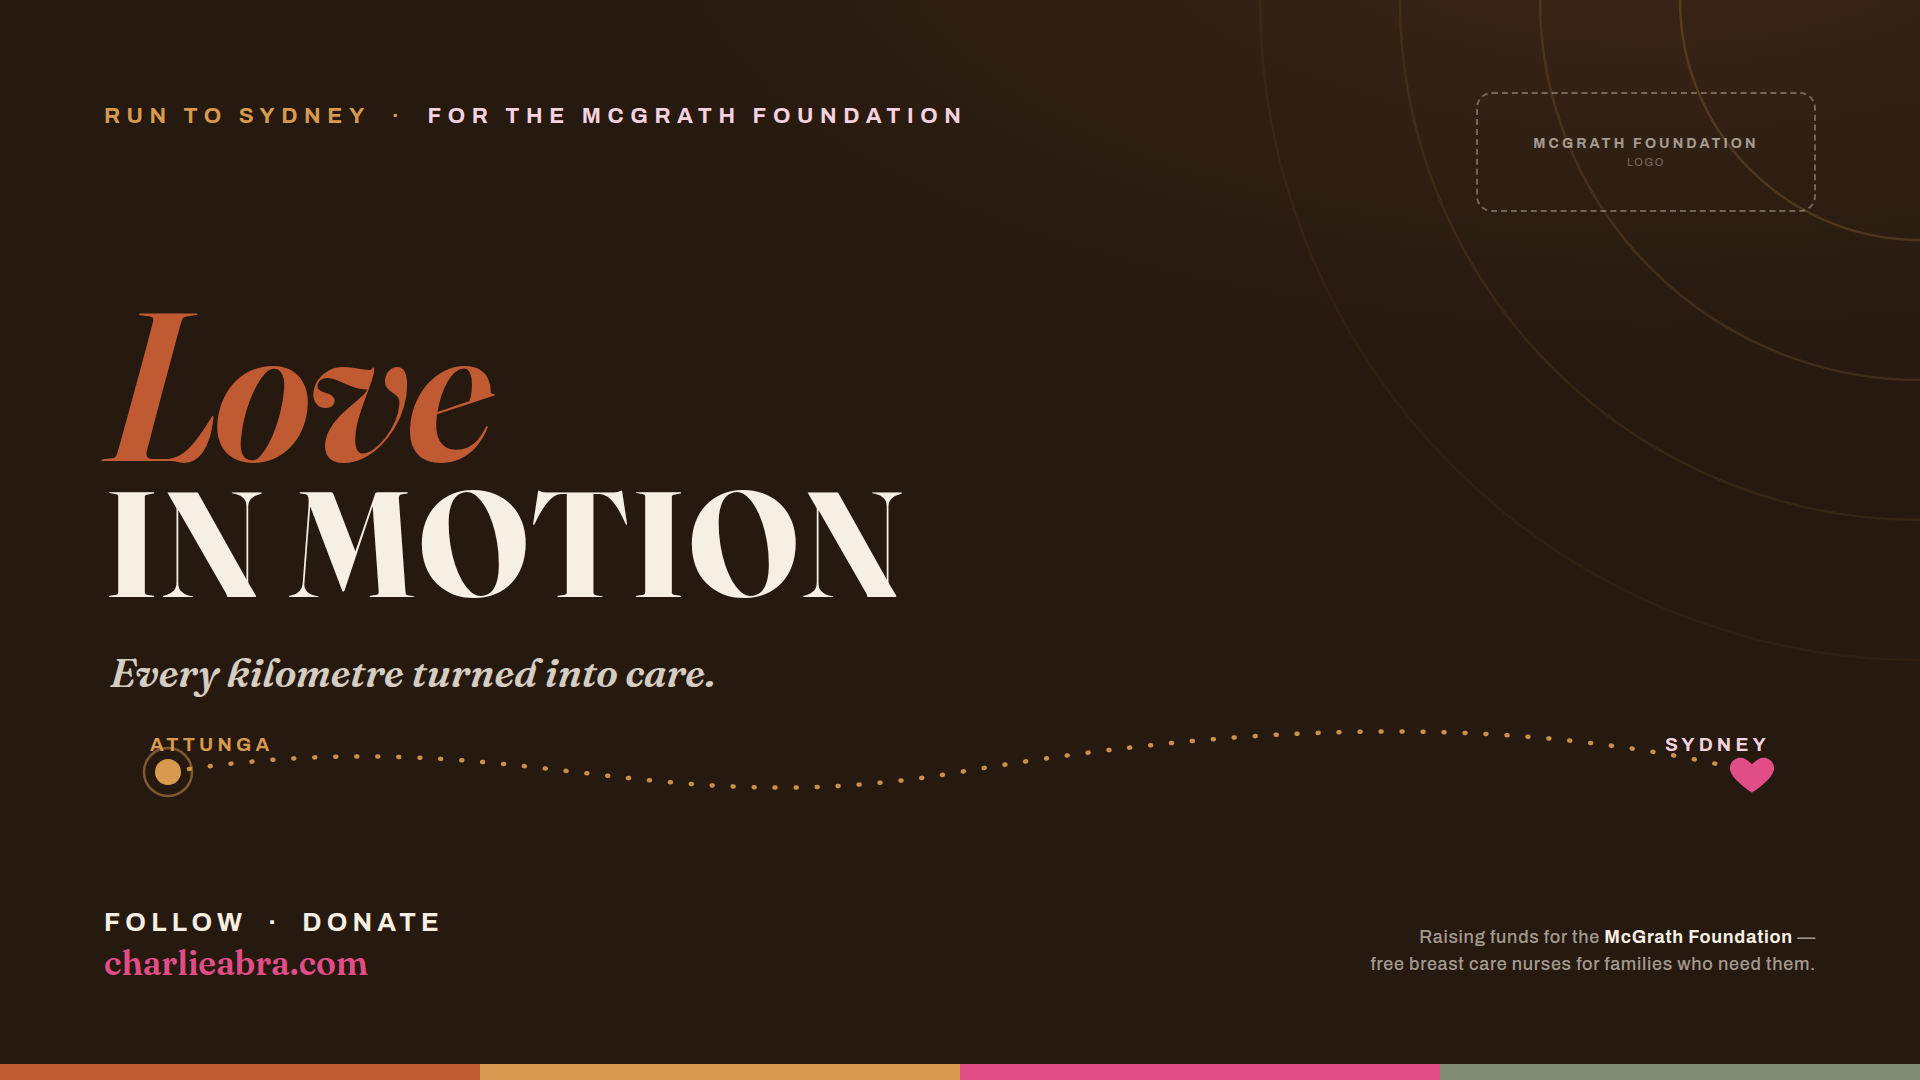
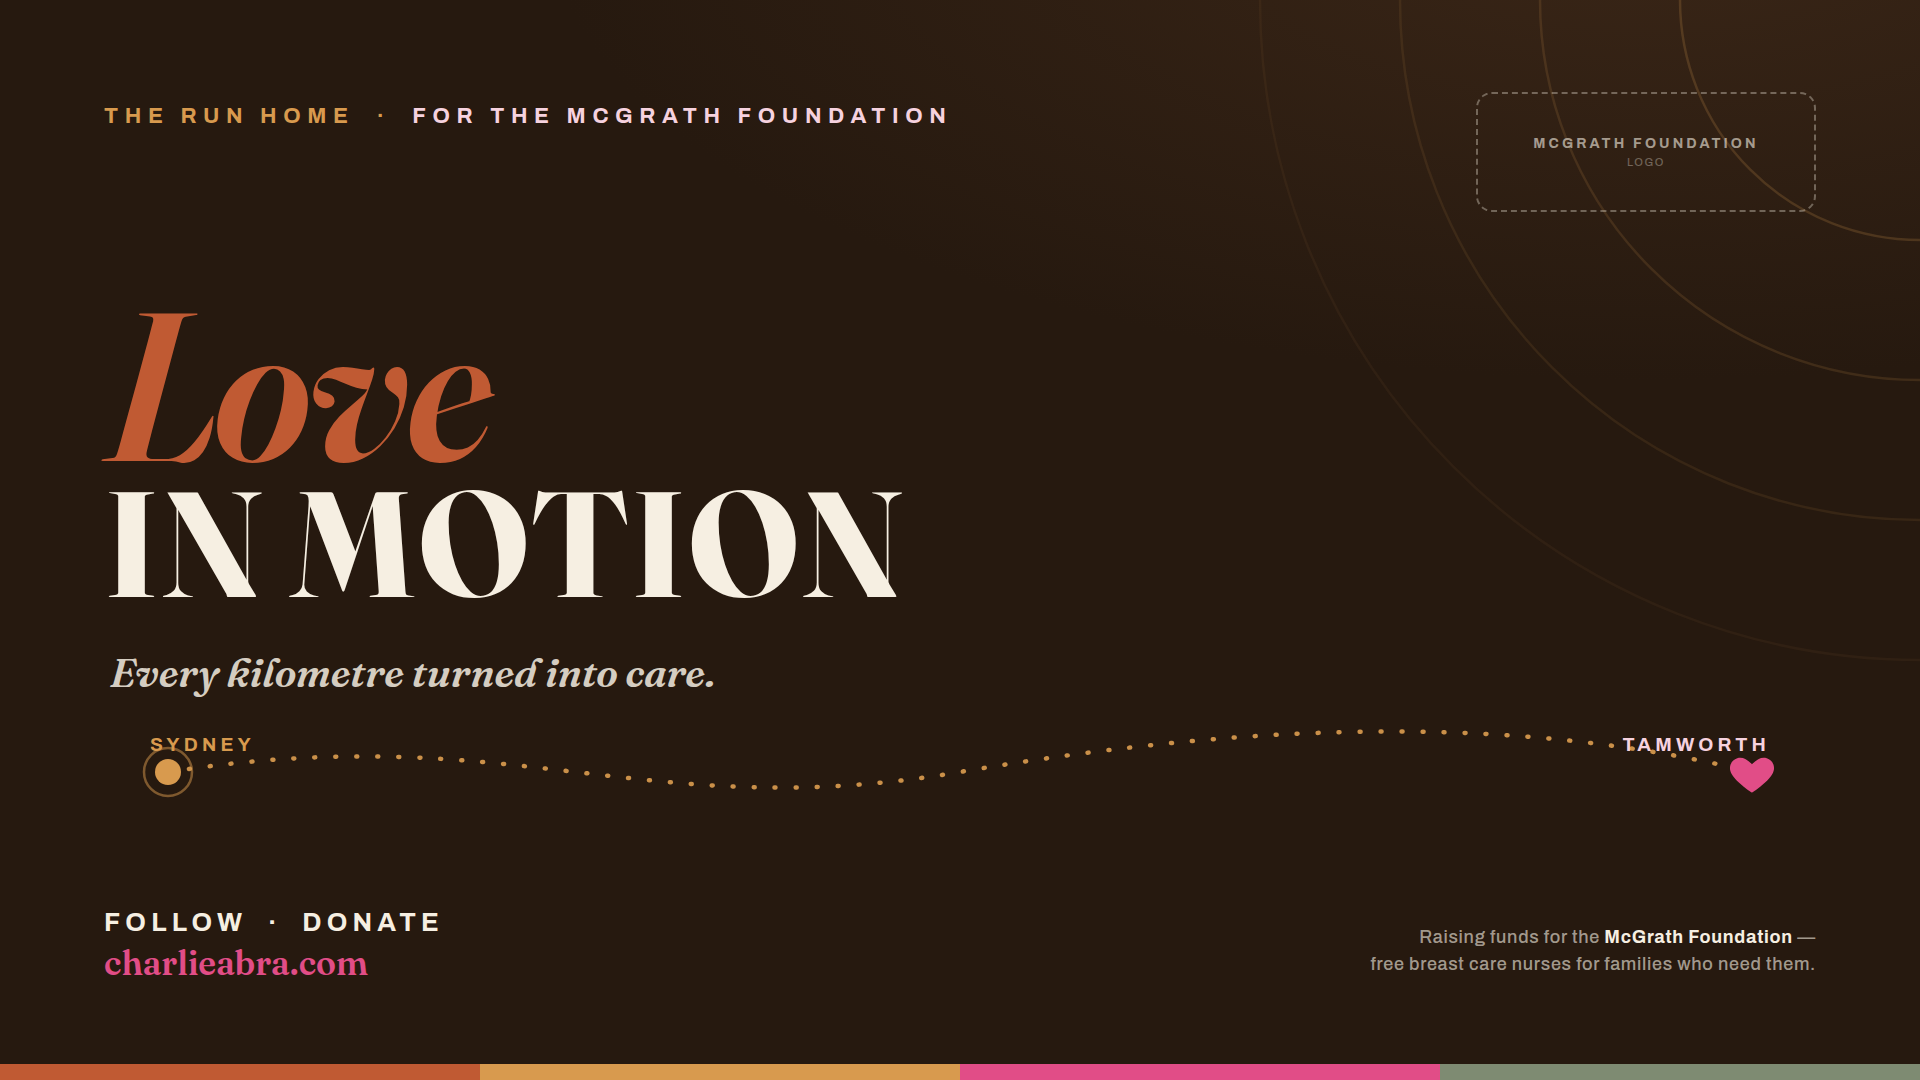
Re-render campaign hero tiles northbound + delete K2PD note
- All 10 campaign hero graphics regenerated on the locked design
  system with the flipped campaign: kicker "The Run Home · For the
  McGrath Foundation" and the route motif now running Sydney →
  Tamworth, with the pink heart at home. Render kit rebuilt from
  scratch (Fraunces + Archivo embedded as woff2 base64; McGrath logo
  chip injected from the repo asset) after the original pipeline
  assets were lost with the scratchpad
- Campaign README updated to match
- Training app: K2PD coach note deleted per request, and the passing
  K2PD reference in the marathon note cleaned up (11 coach notes
  remain, verified rendering with no errors)
- Bump service worker cache to limn-v32

diff --git a/training/index.html b/training/index.html
@@ -899,13 +899,11 @@ document.addEventListener("keydown",function(e){if(e.key==="Escape")closeSheet()
 
 function note(title,html,cls){return "<details class='sub"+(cls?" "+cls:"")+"'><summary>"+title+"<span class='x'>&rsaquo;</span></summary><div class='body'>"+html+"</div></details>";}
 document.getElementById("notesbody").innerHTML=
- note("The marathon changes the shape of November","<p><b>Confirmed: marathon on Sunday 1 November.</b> That settles it - the Coopah block runs exactly as written, all thirteen weeks, no edits. Follow the app through to race day.</p><p>It is also good news for Love in Motion. That marathon is the dress rehearsal K2PD was going to be, and better in one way: crowds, timing, nerves, and a real forced taper. You will arrive at November with genuine marathon fitness in the bank.</p><p><b>But it costs you a week, and I have rebuilt November around that.</b> A marathon leaves real muscle damage - running hard on it too soon is how people arrive at the start line already broken. So:</p><ul><li><b>Week 14 (2-8 Nov) is recovery only.</b> Walks, two short jogs, no long run. Resist it - this is the week that protects December.</li><li><b>Week 15 (9-15 Nov)</b> rebuilds easy volume with one 14 km long run. No quality work at all.</li><li><b>Back-to-backs now start 21-22 November</b>, a fortnight later than my first draft, and the block is tighter for it.</li></ul><p>Because the window is compressed, the December sessions matter more than ever. The peak weekend and the three-day rehearsal are the two things worth protecting above everything else in the calendar.</p><p>One practical question: <b>where is the marathon?</b> If it is interstate, travel and a night in a strange bed add to the recovery cost, and week 14 may need to be gentler still.</p>")+
+ note("The marathon changes the shape of November","<p><b>Confirmed: marathon on Sunday 1 November.</b> That settles it - the Coopah block runs exactly as written, all thirteen weeks, no edits. Follow the app through to race day.</p><p>It is also good news for Love in Motion. That marathon is the full dress rehearsal, and a proper one: crowds, timing, nerves, and a real forced taper. You will arrive at November with genuine marathon fitness in the bank.</p><p><b>But it costs you a week, and I have rebuilt November around that.</b> A marathon leaves real muscle damage - running hard on it too soon is how people arrive at the start line already broken. So:</p><ul><li><b>Week 14 (2-8 Nov) is recovery only.</b> Walks, two short jogs, no long run. Resist it - this is the week that protects December.</li><li><b>Week 15 (9-15 Nov)</b> rebuilds easy volume with one 14 km long run. No quality work at all.</li><li><b>Back-to-backs now start 21-22 November</b>, a fortnight later than my first draft, and the block is tighter for it.</li></ul><p>Because the window is compressed, the December sessions matter more than ever. The peak weekend and the three-day rehearsal are the two things worth protecting above everything else in the calendar.</p><p>One practical question: <b>where is the marathon?</b> If it is interstate, travel and a night in a strange bed add to the recovery cost, and week 14 may need to be gentler still.</p>")+
 
  note("From marathon fitness to multi-day durability","<p>Worth being clear about what the November and December block is actually for, because it is not more fitness.</p><p>The marathon on 1 November <b>is</b> your fitness peak. Everything after it converts that engine into something different: the ability to run 40-50 km, sleep, eat, and get up and do it again. That is a separate skill, and it is trained at a much lower intensity than anything Coopah has you doing.</p><p>So from 9 November onward: <b>no tempo, no intervals, no target pace.</b> Every run is easy. What increases is time on your feet and how often you run on tired legs. If you find yourself checking pace on a back-to-back weekend, you have misunderstood the session.</p>")+
 
  note("The route flipped - and it is a better campaign","<p><b>Sydney to Tamworth, not Attunga to Sydney.</b> Start at the SCG on 6 January, mid Pink Test, and run home. Fourteen days, roughly 430 km, about <b>31 km a day</b>.</p><p>Three things this fixes at once:</p><ul><li><b>You launch inside the Pink Test.</b> The one week of the year the McGrath Foundation has the country's attention, with media already assembled and pink everywhere. You leave as part of that moment rather than arriving to compete with it.</li><li><b>Christmas is yours.</b> No running on 24 December. You are home with Kel and your girl, you travel down after New Year, and you start fresh.</li><li><b>You finish on Country.</b> Into Tamworth, in your own community, with people who know you. A far stronger final scene than a stadium full of strangers - for the documentary, for the fundraising push, and for you.</li></ul><p>It also drops the daily load meaningfully. The old plan needed 40-50 km a day; this needs about 31, with room to walk. That is a far kinder ask of a body that will have run a marathon nine weeks earlier.</p><p><b>Still to confirm:</b> the 6th versus the 7th for the send-off, and whether 19 January is a hard deadline or your best guess. A fifteenth day would bring the daily average under 29 km.</p>")+
-
- note("Kuranda &rarr; Port Douglas is off - what that changes","<p><b>K2PD is not going ahead.</b> The August block is now clean, uninterrupted Coopah - no taper needed around 23 August, no race week to build around. That is simpler and it is good.</p><p>But it removes something too. K2PD would have been your one full dress rehearsal under real conditions: a long day on tired legs, with crew, kit and fuelling all tested for real before the road.</p><p>Without it, <b>two weekends in this plan carry that weight instead</b> - and they are no longer optional:</p><ul><li><b>Sat 5 &amp; Sun 6 December</b> - the 35 km / 28 km peak weekend. Full kit, full fuelling, crew practising alongside you.</li><li><b>Fri 11 - Sun 13 December</b> - the three-day rehearsal. This is the closest thing to Love in Motion you will run before the road.</li></ul><p>If life forces a choice later in the year, protect these two weekends over everything else in the block.</p>")+
 
  note("Why the Coopah plan alone won't get you there","<p>Coopah is building you a very good <b>marathon</b>. Love in Motion is not a marathon.</p><p>Across the full thirteen weeks, the peak is <b>60 km in a week</b> with a 32 km long run, and <b>every single long run is preceded by a rest or easy day</b>. There is not one back-to-back long weekend anywhere in the block.</p><p>The run asks you to cover roughly <b>31 km a day for fourteen days straight</b>. The adaptation that makes that possible - running on legs that already ran yesterday, eating and sleeping well enough to go again, fourteen times over - is exactly what a marathon plan never trains. Single-day distance is not the problem here; <b>consecutive days are</b>.</p><p><b>So: keep Coopah through October.</b> It builds the aerobic engine and the durability honestly, and the named sessions are good. Then from early November the Love in Motion block takes over and does the specific work. That is the merge you are looking at.</p>")+
 

diff --git a/sw.js b/sw.js
@@ -3,7 +3,7 @@
    of the precached shell after changing any of the files below. */
 "use strict";
 
-var VER = "limn-v31";
+var VER = "limn-v32";
 
 /* Same-origin app shell. Paths are relative to this file (the site root),
    so it works both at the domain root and under /Love-in-Motion/. */

diff --git a/media/campaign/README.md b/media/campaign/README.md
@@ -1,8 +1,8 @@
 # Love in Motion — campaign hero graphics
 
-Hero graphics for the Run to Sydney campaign, built on the locked
+Hero graphics for The Run Home campaign (SCG → Tamworth), built on the locked
 `love-in-motion-design` system (Fraunces + Archivo; terracotta / ochre / ink
-palette; *Love* **IN MOTION** lockup; ochre → pink route motif; colour strip).
+palette; *Love* **IN MOTION** lockup; ochre → pink route motif — the pink heart now sits at Tamworth, home; colour strip).
 
 | File | Size | Use |
 | --- | --- | --- |
@@ -30,7 +30,7 @@ partner-logo chip in place of the reserved slot.
 - The **McGrath Foundation logo slot is reserved** (dashed placeholder) — the
   official logo is not reproduced here. It drops in only after partnership /
   brand approval.
-- **No event dates** are shown (none confirmed — not invented).
+- **No event dates** are shown on the tiles (route: Sydney → Tamworth, the run home).
 - The pink is the campaign **placeholder**, not the official McGrath pink;
   swap when their brand pack lands and re-render.
 - CTA: charlieabra.com (Follow · Donate).
